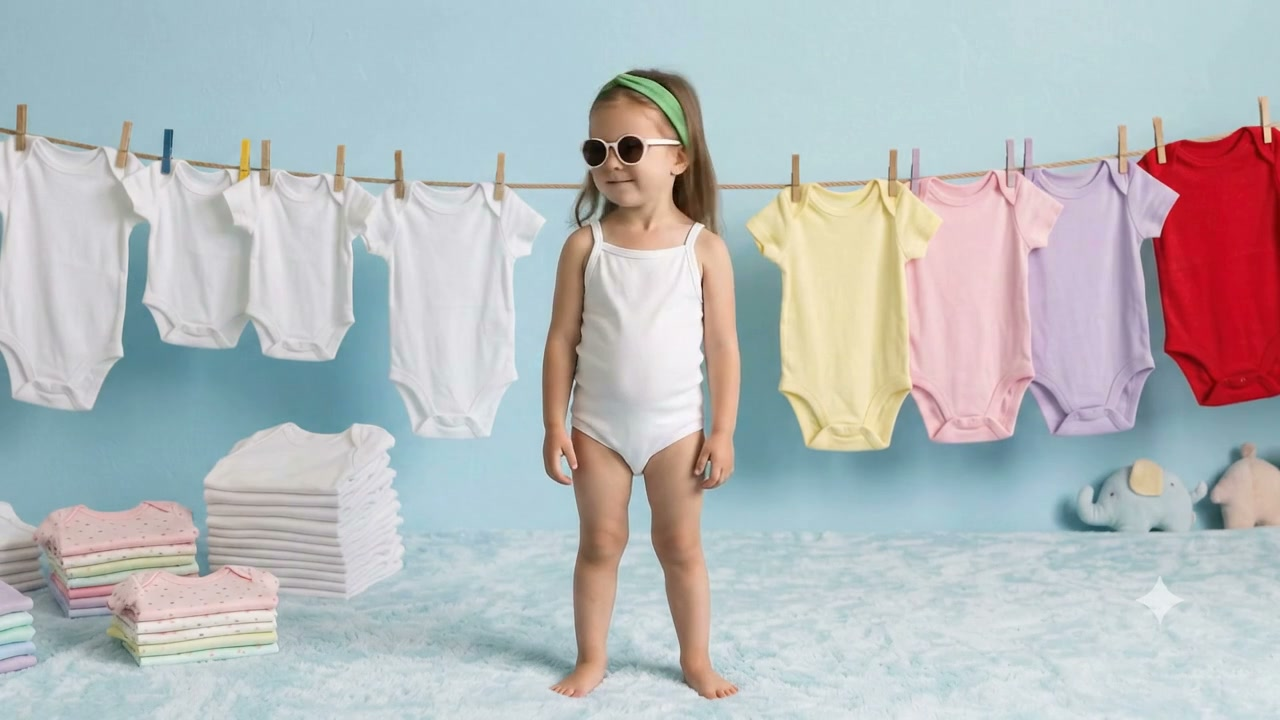
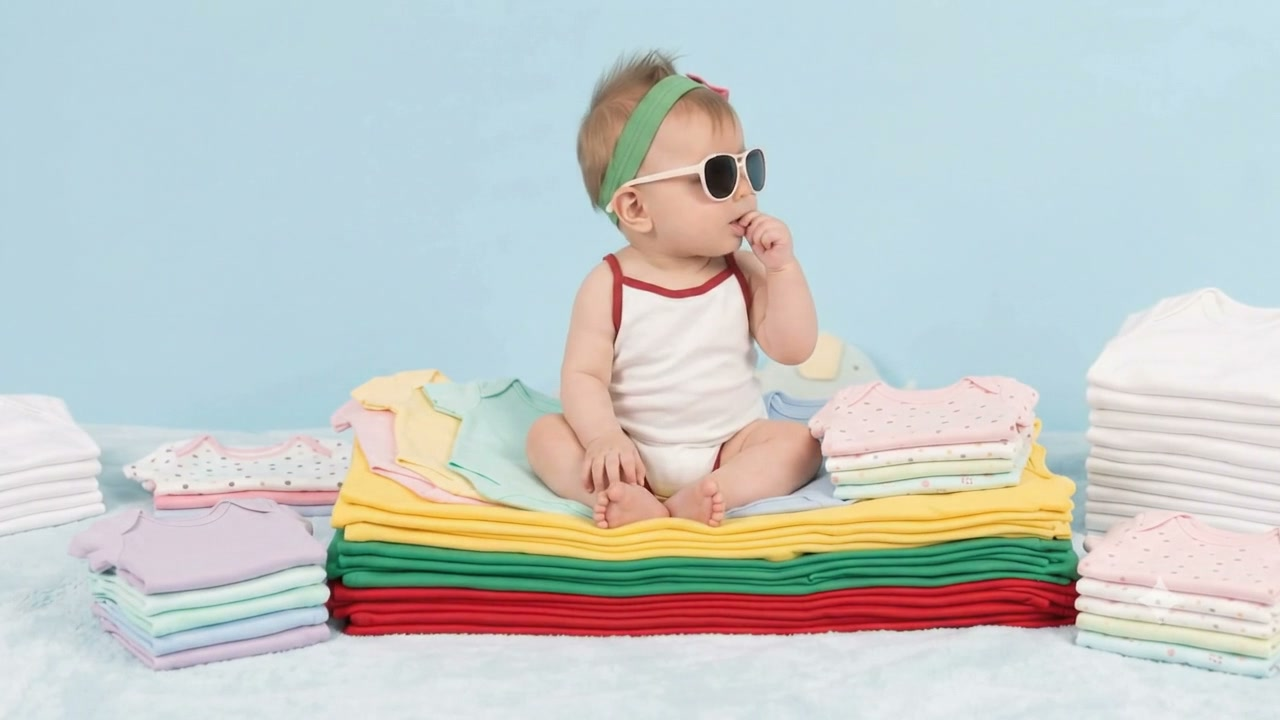
fix(hero): adjust video vertical alignment to top and shift downward to avoid head cropping

diff --git a/frontend/index.html b/frontend/index.html
@@ -74,18 +74,18 @@
 <main class="flex-grow">
 
   <!-- HERO -->
-  <section id="hero-section" class="relative w-full h-[78vh] min-h-[520px] max-h-[750px] md:h-[84vh] bg-[#b8d5e5] overflow-hidden flex items-center">
-    <div class="absolute inset-0 z-0 overflow-hidden">
+  <section id="hero-section" class="relative w-full h-[78vh] min-h-[520px] max-h-[750px] md:h-[84vh] bg-[#c0dce7] overflow-hidden flex items-center">
+    <div class="absolute inset-0 z-0 overflow-hidden bg-[#c0dce7]">
       <!-- High-Resolution Baby Video Background (Muted, Autoplay, Loop - No Audio) -->
-      <video id="hero-video" autoplay loop muted playsinline poster="assets/videos/hero-baby-poster.jpg" class="w-full h-full object-cover object-[70%_35%] sm:object-[66%_38%] md:object-[62%_center]">
+      <video id="hero-video" autoplay loop muted playsinline poster="assets/videos/hero-baby-poster.jpg" class="w-full h-[calc(100%+80px)] object-cover object-[70%_top] sm:object-[66%_top] md:object-[62%_top] translate-y-4 sm:translate-y-6 md:translate-y-9">
         <source src="assets/videos/hero-baby.mp4" type="video/mp4">
       </video>
       <picture id="hero-picture" class="hidden w-full h-full">
         <source id="hero-source" srcset="assets/images/hero-bg.webp" type="image/webp">
-        <img src="assets/images/hero-bg.jpg" id="hero-bg" class="w-full h-full object-cover object-[62%_30%] sm:object-[58%_35%] md:object-center" alt="Bodi.az orqanik pambıq körpə geyimləri">
+        <img src="assets/images/hero-bg.jpg" id="hero-bg" class="w-full h-full object-cover object-[62%_top] sm:object-[58%_top] md:object-center" alt="Bodi.az orqanik pambıq körpə geyimləri">
       </picture>
       <!-- Soft natural gradient overlay to guarantee text legibility while video colors stay vivid -->
-      <div class="absolute inset-0 bg-gradient-to-r from-[#b8d5e5]/40 via-[#b8d5e5]/10 to-transparent pointer-events-none"></div>
+      <div class="absolute inset-0 bg-gradient-to-r from-[#c0dce7]/50 via-[#c0dce7]/15 to-transparent pointer-events-none"></div>
     </div>
     <div class="relative z-20 w-full px-gutter max-w-container-max mx-auto h-full flex items-center">
       <div id="hero-content" class="max-w-md md:max-w-lg lg:max-w-xl space-y-4 md:space-y-5 p-4 sm:p-6 md:p-0 rounded-2xl bg-white/45 md:bg-transparent backdrop-blur-[3px] md:backdrop-blur-none border border-white/50 md:border-none shadow-sm md:shadow-none">

diff --git a/frontend/assets/css/styles.css b/frontend/assets/css/styles.css
@@ -469,3 +469,46 @@ html { scroll-behavior: smooth; scroll-padding-top: 6rem; }
     animation: none !important;
   }
 }
+
+/* Hero Video Seamless Positioning & Downward Adjustment */
+#hero-section {
+  background-color: #c0dce7 !important;
+}
+
+#hero-video {
+  width: 100% !important;
+  height: calc(100% + 80px) !important;
+  object-fit: cover !important;
+  object-position: 70% top !important;
+  transform: translateY(18px);
+  will-change: transform;
+}
+
+@media (min-width: 640px) {
+  #hero-video {
+    object-position: 66% top !important;
+    transform: translateY(26px);
+  }
+}
+
+@media (min-width: 768px) {
+  #hero-video {
+    object-position: 63% top !important;
+    transform: translateY(34px);
+  }
+}
+
+@media (min-width: 1024px) {
+  #hero-video {
+    object-position: 60% top !important;
+    transform: translateY(42px);
+  }
+}
+
+@media (min-width: 1440px) {
+  #hero-video {
+    object-position: 58% top !important;
+    transform: translateY(48px);
+  }
+}
+
